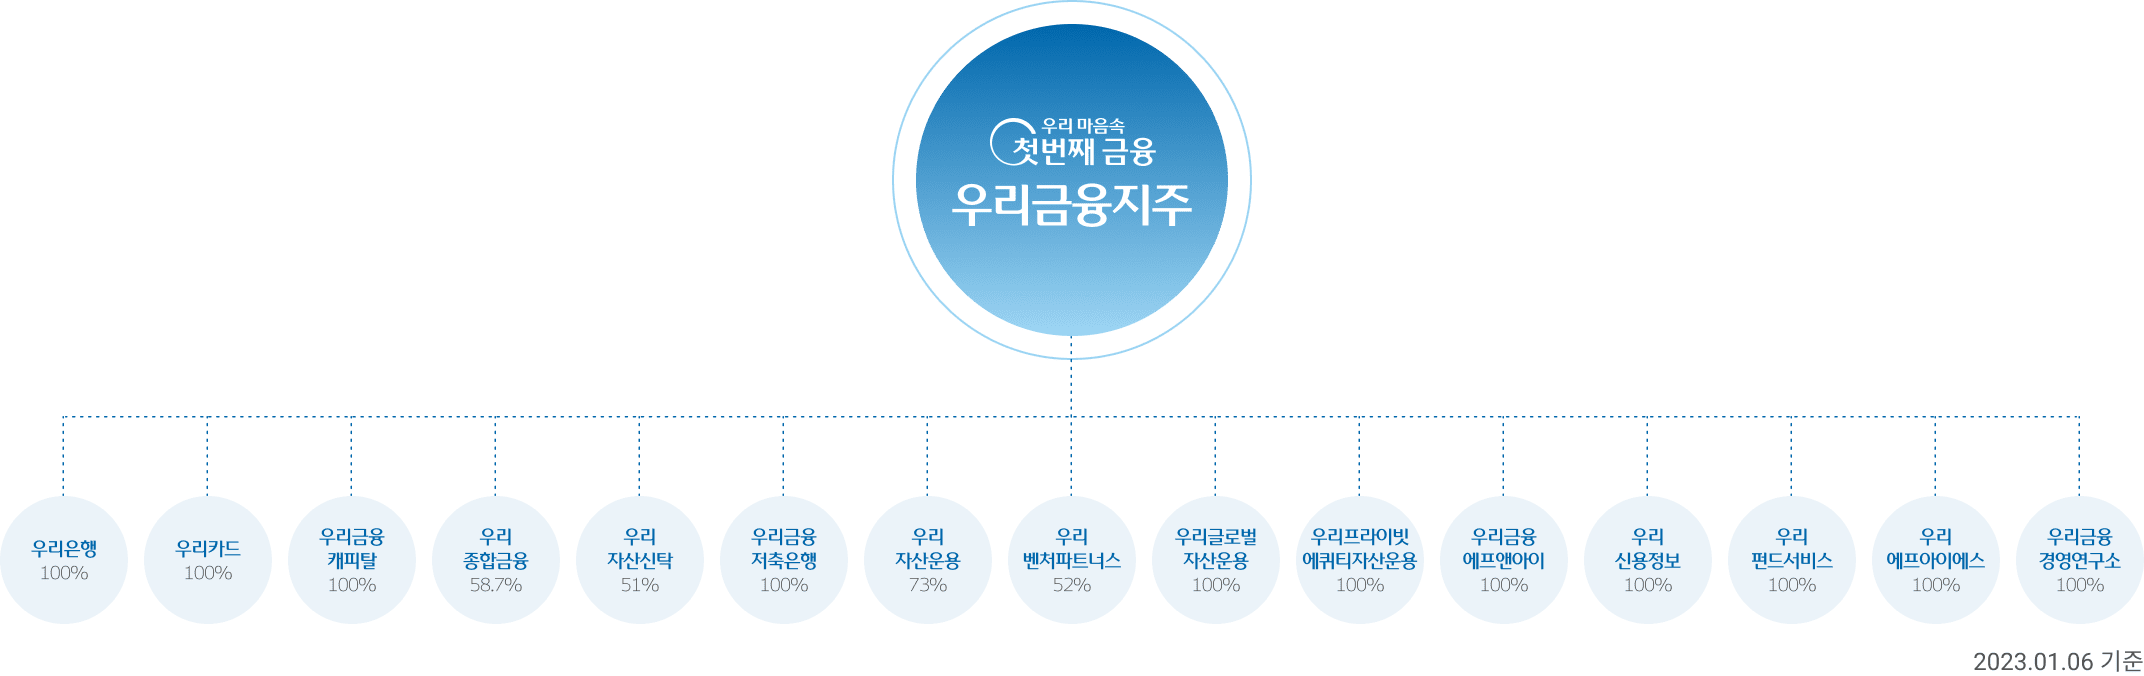
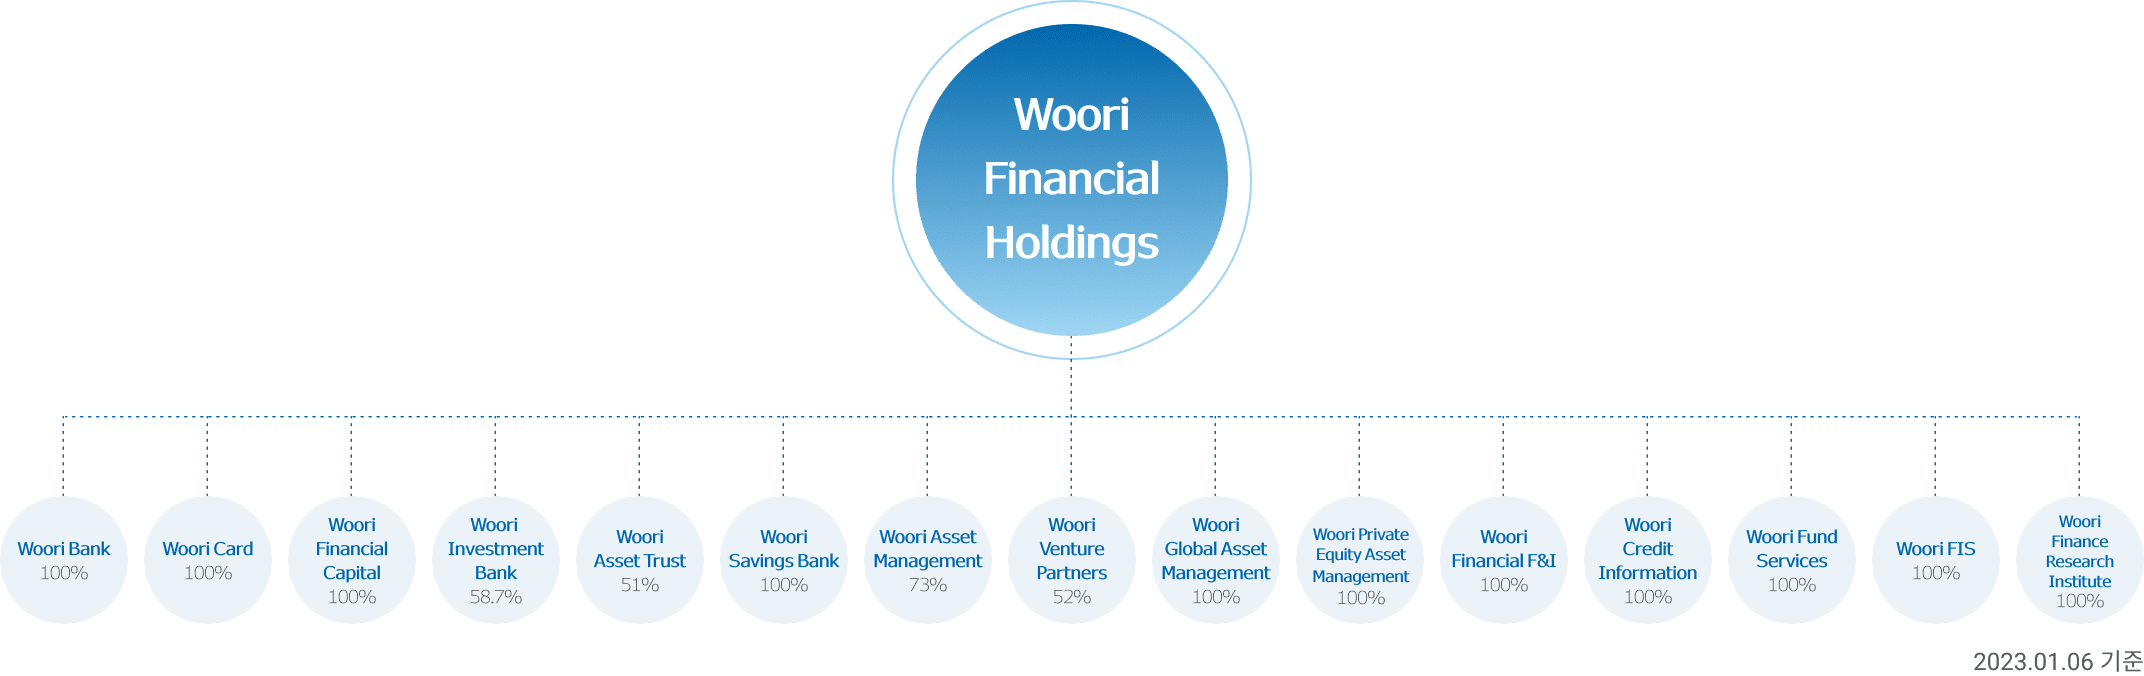
1. 영문 pc 계열사 이미지 변경 2. 임원소개 줄바꿈 변경

diff --git a/home/ktbnetwork/www/static/home/en/css/p_contents.css b/home/ktbnetwork/www/static/home/en/css/p_contents.css
@@ -108,7 +108,7 @@
 .memberList li .member dt{margin:32px 0 8px;font-size:18px;color:#0067AC;font-weight:500}
 .memberList li .member dd{line-height:33px}
 .memberList li.active .member{display:block}
-.memberList .thumb{position:relative;display:block;margin:0 10px 65px}
+.memberList .thumb{position:relative;display:block;margin:0 10px 65px;letter-spacing: -0.5px}
 .memberList .thumb strong{display:block;margin-bottom:2px;font-size:20px;font-weight:600}
 .memberList .thumb strong span{display:block;font-size:15px;font-weight:400}
 .memberList .thumb .img{position:relative;display:block;width:204px;margin-bottom:8px}
@@ -120,7 +120,7 @@
 .memberList .ctrl:disabled{opacity:0.5}
 .memberWrap:after, .memberInner:after{content:'';display:block;clear:both}
 .memberWrap .memberInner{float:left;width:450px}
-.memberInner .title{position:relative;float:left;width:130px;height:130px;margin-right:10px;padding:20px;color:#fff;font-size:15px;font-weight:500;background:#25283d /*url(../images/contents/bg_triangle_member.png) 100% 100% no-repeat*/}
+.memberInner .title{position:relative;float:left;width:130px;height:130px;margin-right:10px;padding:20px;color:#fff;font-size:15px;font-weight:500;background:#25283d /*url(../images/contents/bg_triangle_member.png) 100% 100% no-repeat*/;letter-spacing: -1px;}
 .memberInner .title:after{content:'';display:block;width:90px;height:1px;margin-top:14px;background:#fff}
 .memberInner ul{float:left;width:900px}
 .memberWrap .memberInner ul{width:300px}
@@ -188,6 +188,7 @@ dl.noticeBox .tblV tbody th{vertical-align:middle}
 
 /* About KTB Group */
 .aboutGroup .subTxt{margin-top:17px;text-align:center}
+.aboutGroup .txtCopy{font-weight:500;}
 .aboutGroup .subsidiary .imgArea img{width:100%}
 .aboutGroup .subsidiary .list{margin-top:60px}
 .aboutGroup .subsidiary .list li:first-child{border-top:1px solid #dedede}

diff --git a/home/ktbnetwork/www/static/home/kr/css/p_contents.css b/home/ktbnetwork/www/static/home/kr/css/p_contents.css
@@ -120,7 +120,7 @@
 .memberList .ctrl:disabled{opacity:0.5}
 .memberWrap:after, .memberInner:after{content:'';display:block;clear:both}
 .memberWrap .memberInner{float:left;width:450px}
-.memberInner .title{position:relative;float:left;width:130px;height:130px;margin-right:10px;padding:20px;color:#fff;font-size:15px;font-weight:500;background:#25283d /*url(../images/contents/bg_triangle_member.png) 100% 100% no-repeat*/}
+.memberInner .title{position:relative;float:left;width:130px;height:130px;margin-right:10px;padding:20px;color:#fff;font-size:15px;font-weight:500;background:#25283d /*url(../images/contents/bg_triangle_member.png) 100% 100% no-repeat*/;letter-spacing: -1px;}
 .memberInner .title:after{content:'';display:block;width:90px;height:1px;margin-top:14px;background:#fff}
 .memberInner ul{float:left;width:900px}
 .memberWrap .memberInner ul{width:300px}
@@ -202,6 +202,7 @@ dl.noticeBox .tblV tbody th{vertical-align:middle}
 
 /* About KTB Group */
 .aboutGroup .subTxt{margin-top:17px;text-align:center}
+.aboutGroup .txtCopy{font-weight:500;}
 .aboutGroup .subsidiary .imgArea img{width:100%}
 .aboutGroup .subsidiary .list{margin-top:60px}
 .aboutGroup .subsidiary .list li:first-child{border-top:1px solid #dedede}
